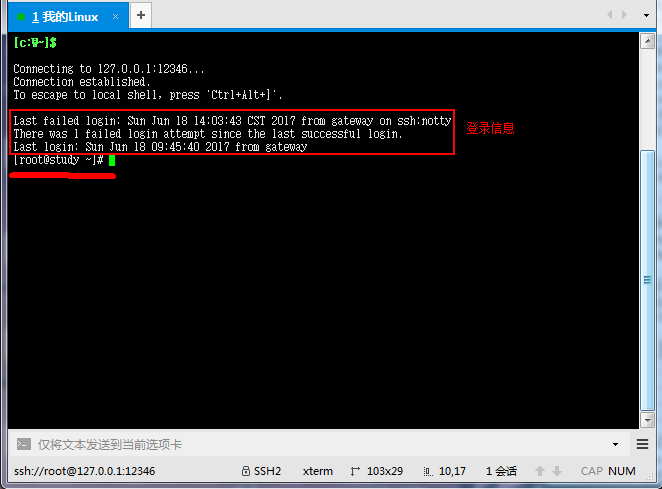
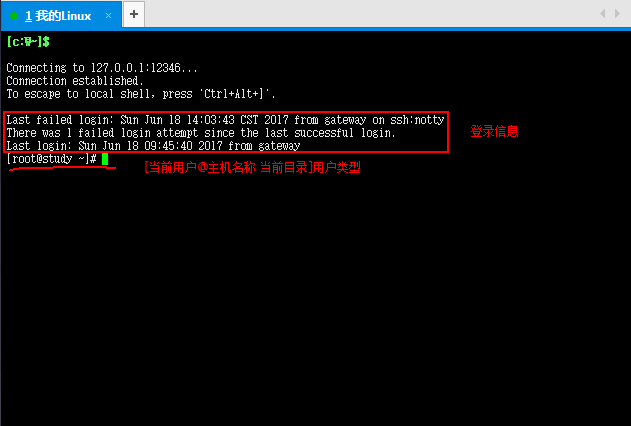
文档修改

Changed region(s): [[0.0, 0.0, 1.0, 1.0]]

diff --git a/Linux基础知识.md b/Linux基础知识.md
@@ -65,8 +65,12 @@ d | rwx | rwx | rwx | 3 | root | root
 ![绿色版下载说明](https://github.com/JustNeedOneMoreStep/LinuxDocs/blob/master/images/xshelldwurl.png?raw=true)  
 
 ### 2.2 XShell使用
-- [配置步骤](https://github.com/JustNeedOneMoreStep/LinuxDocs/blob/master/XShell%E4%BD%BF%E7%94%A8.md)  
-,之后进入到主页面:  
+- [配置步骤参考链接](https://github.com/JustNeedOneMoreStep/LinuxDocs/blob/master/XShell%E4%BD%BF%E7%94%A8.md)  
+
+&emsp;&emsp;之后进入到主页面:  
 ![使用步骤6](https://github.com/JustNeedOneMoreStep/LinuxDocs/blob/master/images/xs6.png?raw=true)  
 
-这里
+这里,注意下登录信息下面那一行:
+root|study|~|#
+---|---|---|---
+当前用户|主机名称|当前所在目录|用户类型
